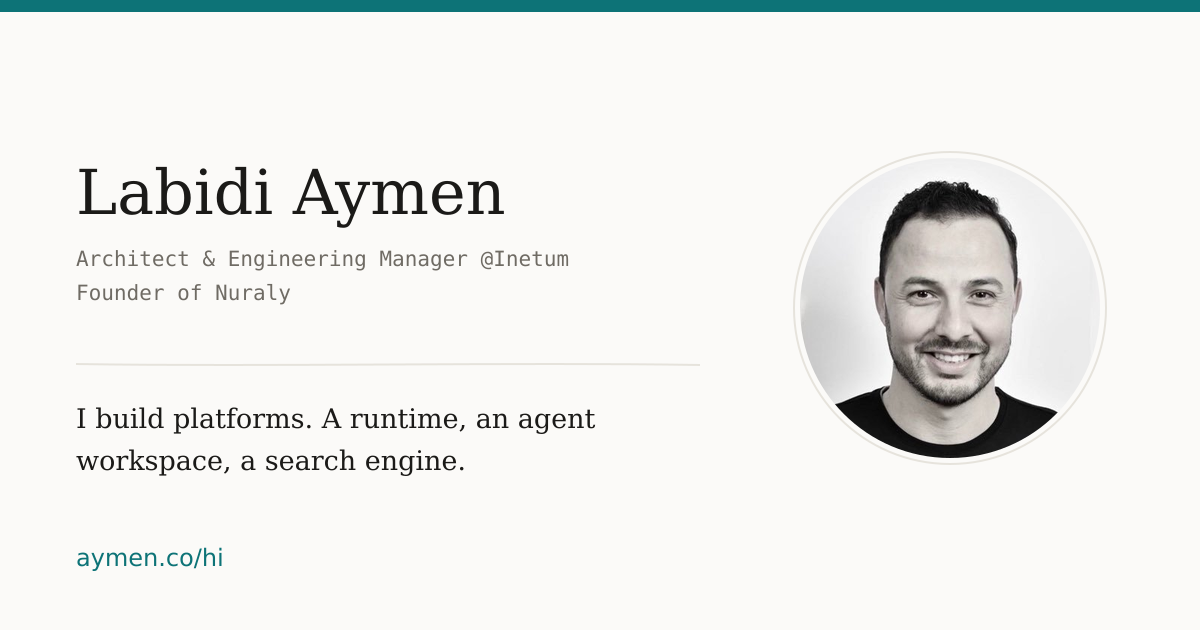
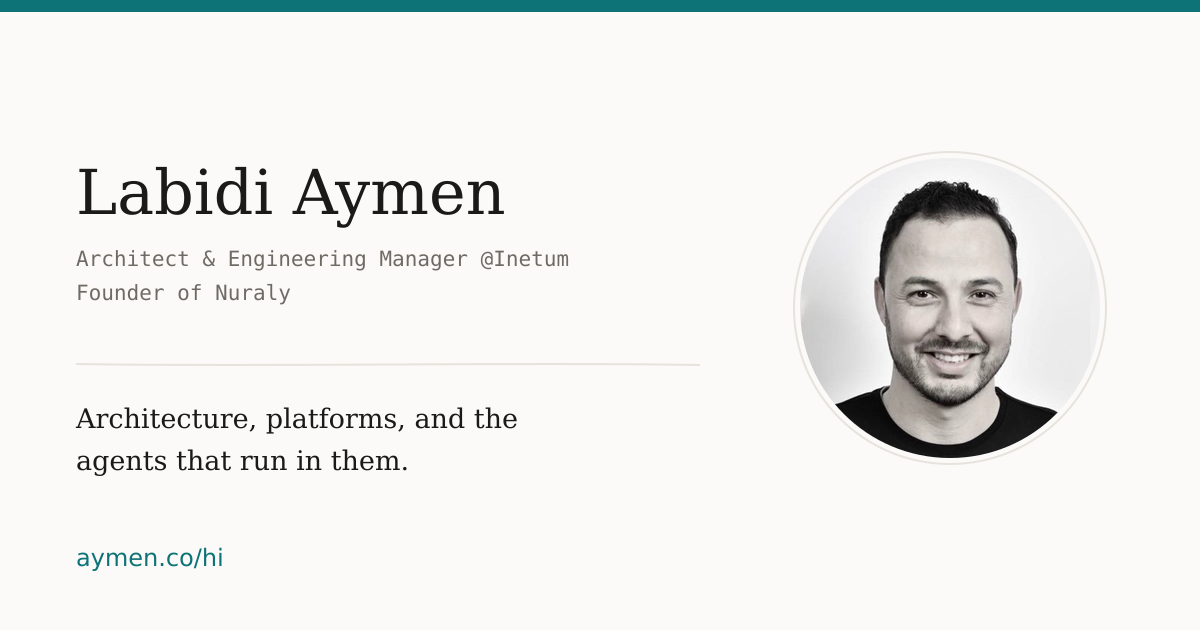
Link the card home, and take the line you picked

Changed region(s): [[0.0617, 0.6333, 0.4933, 0.6937], [0.0617, 0.7238, 0.4008, 0.754]]

diff --git a/site/css/main.css b/site/css/main.css
@@ -1616,6 +1616,11 @@ which is a hard yellow that
   max-width: 24rem;
   text-align: center;
 }
+.card-head {
+  display: block;
+  text-decoration: none;
+  color: inherit;
+}
 .card-photo {
   width: 96px;
   height: 96px;
@@ -1671,6 +1676,7 @@ which is a hard yellow that
   color: var(--text);
 }
 .card-links a:hover { border-color: var(--accent); }
+.card-head:hover .card-name { color: var(--accent); }
 .card-meta {
   font-family: var(--mono);
   font-size: 0.72rem;
